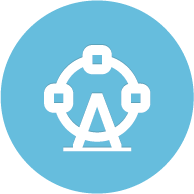
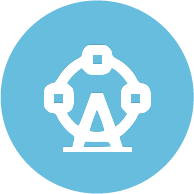
Edited the images to be transparent and added the function for when they're clicked they get added to an array named selectedFilters

diff --git a/404chillnotfound/scripts/GigaGuideScripts.js b/404chillnotfound/scripts/GigaGuideScripts.js
@@ -11,25 +11,30 @@ $( document ).ready(function() {
 	     }
 		}
 	);
-});
-/*
+
+
 	$('img.a').on("click", sayhi);
 	function sayhi () {$( this ).data("clicked",!$(this).data("clicked"));
-	if $(this).data("clicked") {
-	selectedFilters.push($(this.data('name')))}
-	else
+	}
+ //this checks to see if the value of clicked is true. If the value is true, and the image is clicked, it sets to false. If it's false and the image is clicked the value changes to true
 
-	}} //this checks to see if the value of clicked is true. If the value is true, and the image is clicked, it sets to false. If it's false and the image is clicked the value changes to true
+	var selectedFilters = [];
 
+	//NOT REAL YET
+	$('#filterSubmit').on("click", runThroughAllImgs);
+	function runThroughAllImgs () {
+		$('img.a').each(addClicked);
+		console.log (selectedFilters)
+//window.location.href="maps.html?filters=" + (selectedFilters).join(",")
+		return false
+	}
+	function addClicked(index,element){
+		if ($(element).data("clicked")) {
+		selectedFilters.push($(element).data('name'));
+		}
+	}
 });
 
-
-var selectedFilters = [];
-selectedFilters.indexOf($(this.data('name')));
-//NOT REAL YET
-//if clicked == true (get the name of filter clicked)
-////selectedFilters.push($(this.data('name')))
-*/
 
 
 // Autocomplete college name as user types

diff --git a/404chillnotfound/templates/filters.html b/404chillnotfound/templates/filters.html
@@ -17,6 +17,10 @@
       <img src="static/Filter-Icons/shoppingBW.png" align="left" class="a" data-name=shopping >
       <img src="static/Filter-Icons/sportsBW.png" align="left" class="a" data-name=sports >
   </div>
+
+  <form>
+    <input id="filterSubmit" type="submit">
+  </form>
 </div>
 
 
